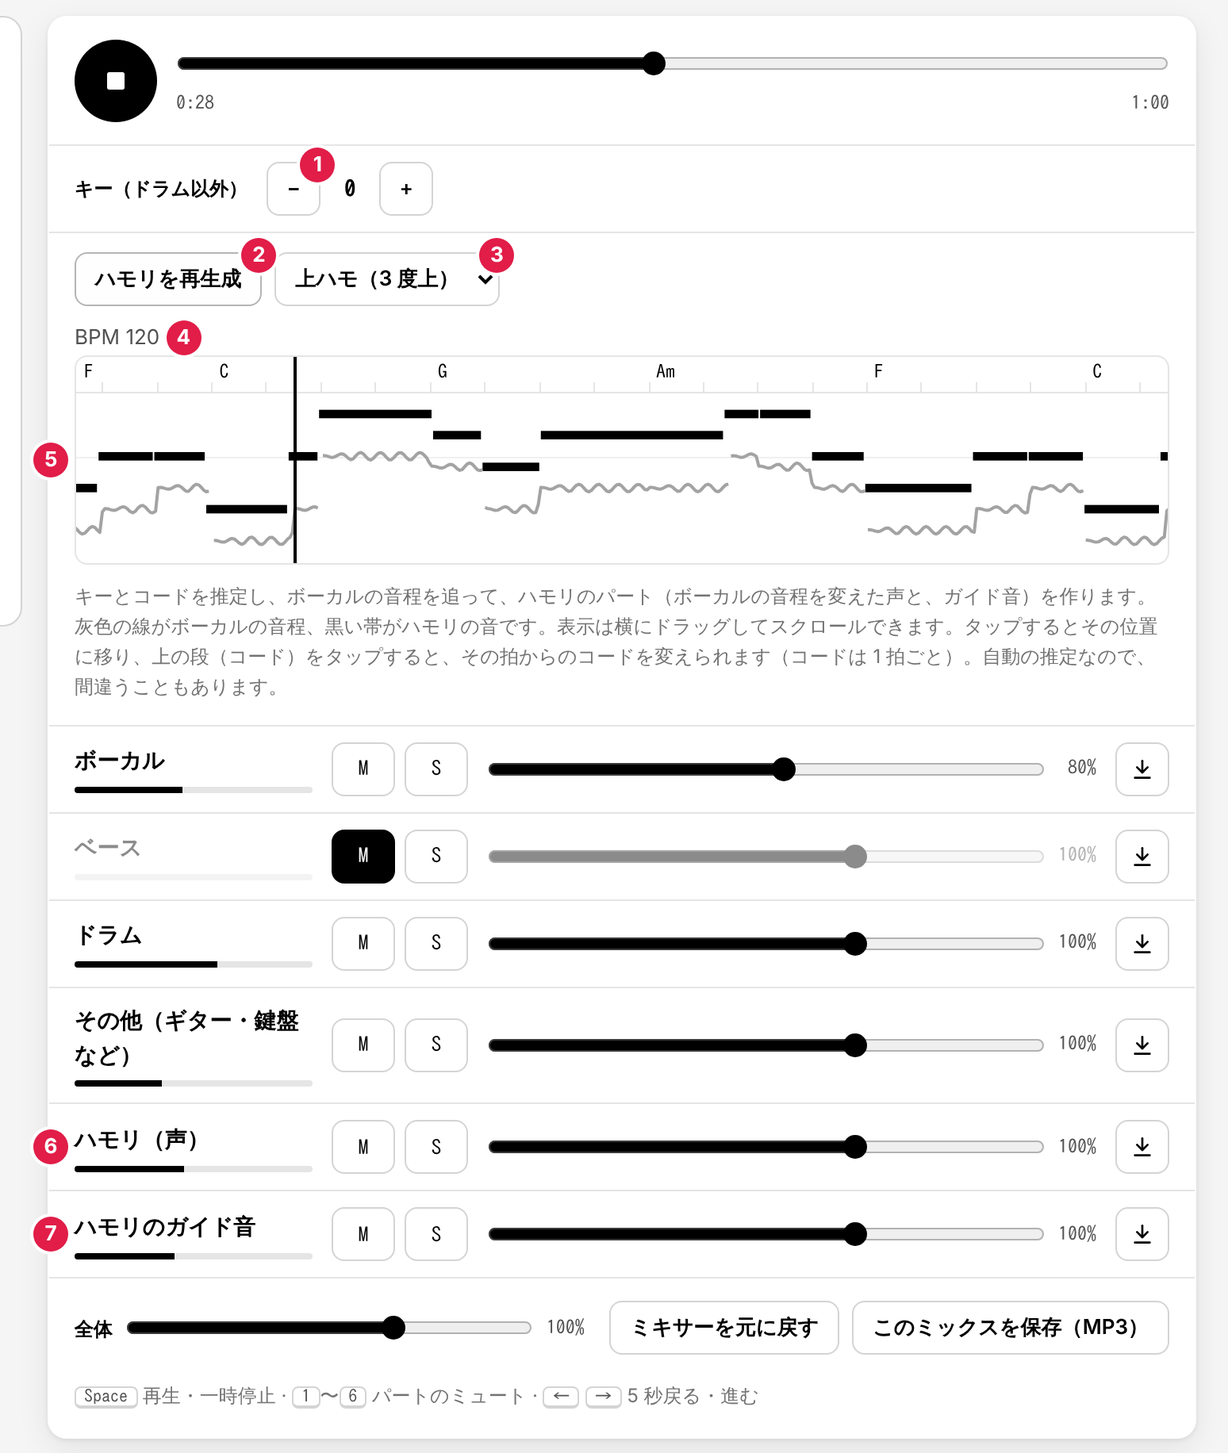
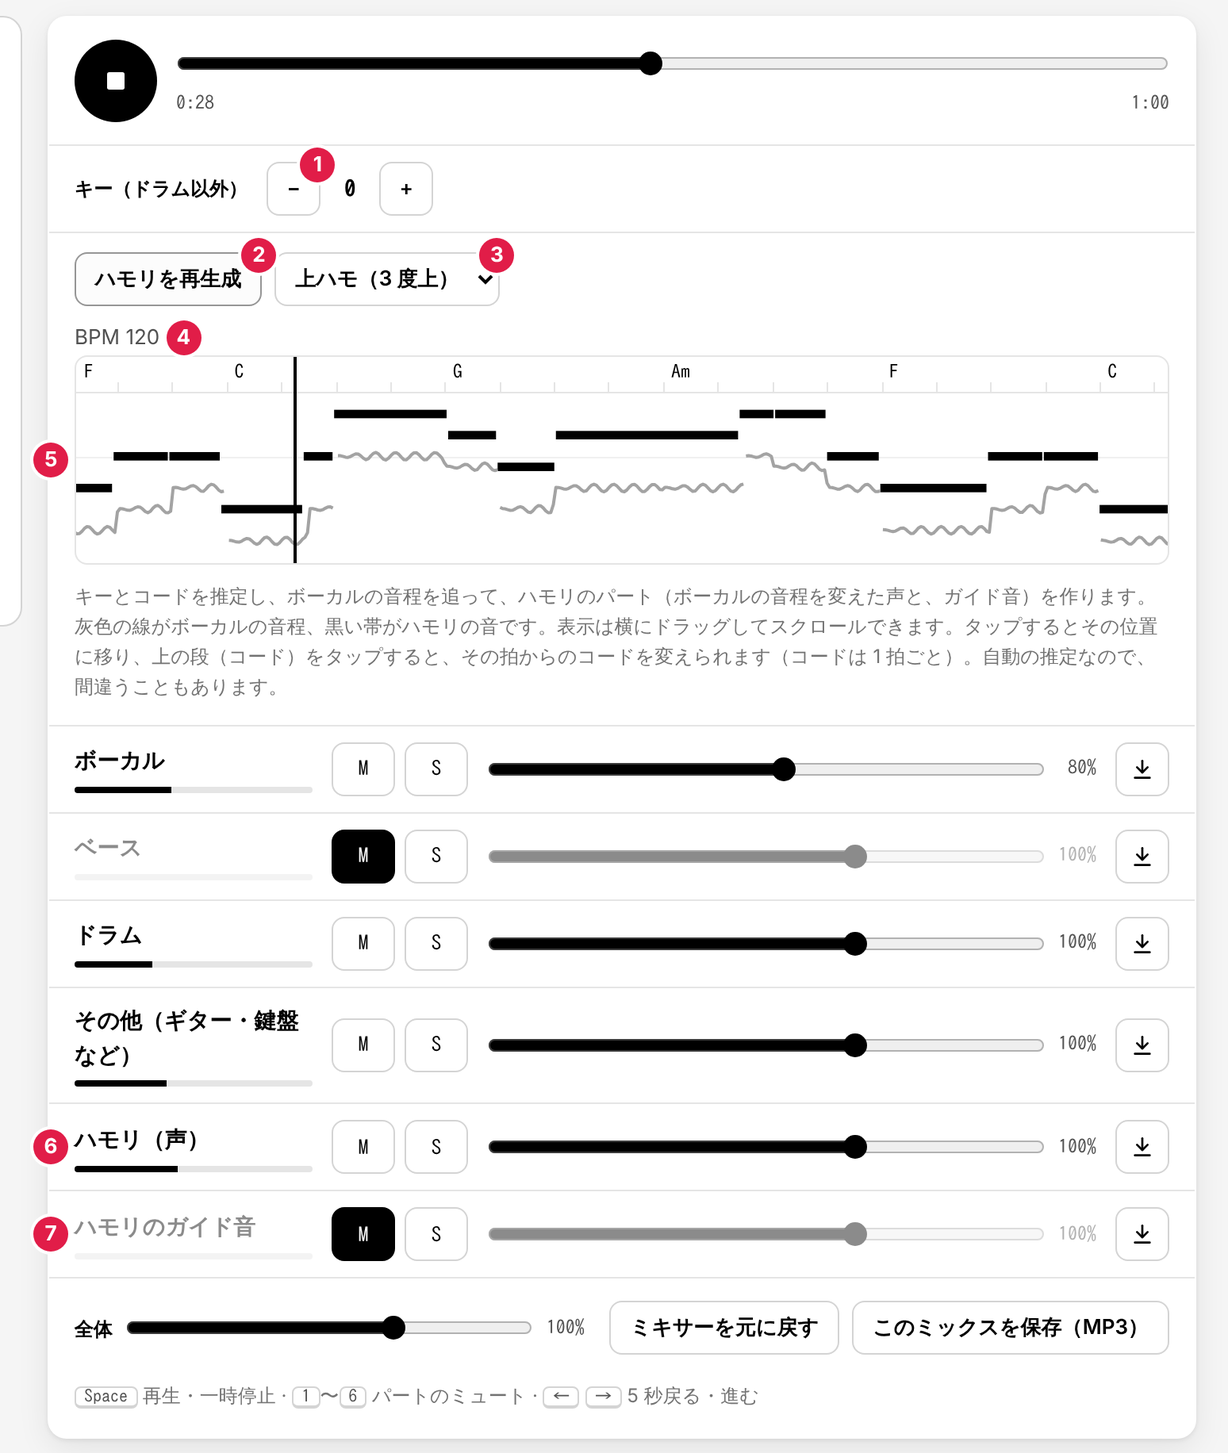
ハモリのガイド音を最初はミュートに
- freshState() でガイド音だけ mute: true。保存形式を v: 2 にし、v: 1 の保存はガイド音以外（各パートの音量・ミュート、全体の音量）を引き継ぐ
- 「ミキサーを元に戻す」の案内に、ガイド音はミュートに戻ることを追記
- 記事（guide・harmony）: ガイド音は最初ミュートで、聞くときは M を押すことを追記。練習法の 2 番目に M を外す手順
- 画面写真を撮り直し（ガイド音の行がミュート表示、マーカー 1 がラベルに重ならないように）

Claude-Session: https://claude.ai/code/session_01FBcjAeQ3QT6sh8No2uGm2z

diff --git a/public/bandstemmixer/ja/harmony/index.html b/public/bandstemmixer/ja/harmony/index.html
@@ -212,7 +212,7 @@
   <li><b>BPM</b> – 曲から推定したテンポ。コードはこの拍の上で切り替わります。</li>
   <li><b>表示</b> – 上の段にコード名（拍ごとに小さな目盛り）、<b>灰色の線</b>がボーカルの音程、<b>黒い帯</b>がハモリの音、黒い縦線が再生位置です。横にドラッグ（または横スワイプ・Shift＋ホイール）すると前後を見られ、タップするとその位置に移ります。再生を始めると、再生位置に戻ります。</li>
   <li><b>ハモリ（声）</b> – 分離したボーカルを、ハモリの音程に変えたもの。歌い手のビブラートや歌詞が残るので、もう一人が歌っているように聞こえます。</li>
-  <li><b>ハモリのガイド音</b> – 同じ音を、揺れのない単純な音で鳴らします。音程が正確なので、いちばん合わせやすい音です。</li>
+  <li><b>ハモリのガイド音</b> – 同じ音を、揺れのない単純な音で鳴らします。音程が正確なので、いちばん合わせやすい音です。最初はミュートになっているので、聞くときは M を押します。</li>
 </ol>
 <p>増えた 2 つのパートにも、ほかのパートと同じく M・S・フェーダーと、MP3 で保存する ↓ ボタンがあります。</p>
 
@@ -232,7 +232,7 @@
 <h2 id="practice">4 ステップの練習法</h2>
 <ol>
   <li><b>聞く</b> – ガイド音だけをソロ（S）にして、ハモリを何度か聞きます。次にボーカルも S にして、2 つの線の重なり方を聞きます。</li>
-  <li><b>ガイドと一緒に歌う</b> – ボーカルとガイド音を鳴らしたまま、ガイドに合わせてハモリを歌います。ハモリ（声）は、まずはミュート（M）しておきます。</li>
+  <li><b>ガイドと一緒に歌う</b> – ガイド音の M を押してミュートを外し（最初はミュート）、ボーカルとガイド音を鳴らしたまま、ガイドに合わせてハモリを歌います。ハモリ（声）は、まずはミュート（M）しておきます。</li>
   <li><b>助けを減らす</b> – ガイド音を 60%、30% と少しずつ下げ、主旋律に対して自分でハモリを保てるようにします。</li>
   <li><b>一人で歌う</b> – ガイド音とハモリ（声）をミュートし、主旋律とバンドに対してハモリを歌います。確かめたいときは、ハモリ（声）を少しだけ戻します。</li>
 </ol>

diff --git a/public/bandstemmixer/index.html b/public/bandstemmixer/index.html
@@ -529,7 +529,7 @@
           "master": "Master",
           "mix.reset": "Reset mixer",
           "mix.save": "Save this mix (MP3)",
-          "mix.reset.done": "All parts back to 100%, unmuted.",
+          "mix.reset.done": "All parts back to 100%, unmuted (the guide tone muted).",
           "mute": "Mute {name}",
           "solo": "Solo {name}",
           "volume": "{name} volume",
@@ -672,7 +672,7 @@
           "master": "全体",
           "mix.reset": "ミキサーを元に戻す",
           "mix.save": "このミックスを保存（MP3）",
-          "mix.reset.done": "すべてのパートを 100%・ミュートなしに戻しました。",
+          "mix.reset.done": "すべてのパートを 100%・ミュートなし（ガイド音はミュート）に戻しました。",
           "mute": "{name}をミュート",
           "solo": "{name}をソロ",
           "volume": "{name}の音量",
@@ -843,20 +843,23 @@
       // ---------- Saved state ----------
       // Mixer settings only. Solo is not restored (a part left on solo would silence the others without notice).
       const STATE_KEY = "bandstemmixer-state";
+      // The harmony guide tone starts muted (the harmony voice is usually what you want to hear first)
       function freshState() {
         const parts = {};
-        ALL.forEach(function (p) { parts[p.key] = { vol: 1, mute: false }; });
-        return { v: 1, master: 1, parts: parts };
+        ALL.forEach(function (p) { parts[p.key] = { vol: 1, mute: p.key === "guide" }; });
+        return { v: 2, master: 1, parts: parts };
       }
       const clampVol = (v, max) => (typeof v === "number" && isFinite(v) ? Math.max(0, Math.min(max, v)) : 1);
       let store = (function () {
         const s = freshState();
         try {
           const o = JSON.parse(localStorage.getItem(STATE_KEY) || "null");
-          if (o && o.v === 1) {
+          // v1 (before the guide tone started muted): everything but the guide tone carries over
+          if (o && (o.v === 1 || o.v === 2)) {
             s.master = clampVol(o.master, 1.5);
             ALL.forEach(function (p) {
               const x = o.parts && o.parts[p.key];
+              if (o.v === 1 && p.key === "guide") return;
               if (x) s.parts[p.key] = { vol: clampVol(x.vol, 1.5), mute: x.mute === true };
             });
           }

diff --git a/public/bandstemmixer/ja/index.html b/public/bandstemmixer/ja/index.html
@@ -525,7 +525,7 @@
           "master": "Master",
           "mix.reset": "Reset mixer",
           "mix.save": "Save this mix (MP3)",
-          "mix.reset.done": "All parts back to 100%, unmuted.",
+          "mix.reset.done": "All parts back to 100%, unmuted (the guide tone muted).",
           "mute": "Mute {name}",
           "solo": "Solo {name}",
           "volume": "{name} volume",
@@ -668,7 +668,7 @@
           "master": "全体",
           "mix.reset": "ミキサーを元に戻す",
           "mix.save": "このミックスを保存（MP3）",
-          "mix.reset.done": "すべてのパートを 100%・ミュートなしに戻しました。",
+          "mix.reset.done": "すべてのパートを 100%・ミュートなし（ガイド音はミュート）に戻しました。",
           "mute": "{name}をミュート",
           "solo": "{name}をソロ",
           "volume": "{name}の音量",
@@ -839,20 +839,23 @@
       // ---------- Saved state ----------
       // Mixer settings only. Solo is not restored (a part left on solo would silence the others without notice).
       const STATE_KEY = "bandstemmixer-state";
+      // The harmony guide tone starts muted (the harmony voice is usually what you want to hear first)
       function freshState() {
         const parts = {};
-        ALL.forEach(function (p) { parts[p.key] = { vol: 1, mute: false }; });
-        return { v: 1, master: 1, parts: parts };
+        ALL.forEach(function (p) { parts[p.key] = { vol: 1, mute: p.key === "guide" }; });
+        return { v: 2, master: 1, parts: parts };
       }
       const clampVol = (v, max) => (typeof v === "number" && isFinite(v) ? Math.max(0, Math.min(max, v)) : 1);
       let store = (function () {
         const s = freshState();
         try {
           const o = JSON.parse(localStorage.getItem(STATE_KEY) || "null");
-          if (o && o.v === 1) {
+          // v1 (before the guide tone started muted): everything but the guide tone carries over
+          if (o && (o.v === 1 || o.v === 2)) {
             s.master = clampVol(o.master, 1.5);
             ALL.forEach(function (p) {
               const x = o.parts && o.parts[p.key];
+              if (o.v === 1 && p.key === "guide") return;
               if (x) s.parts[p.key] = { vol: clampVol(x.vol, 1.5), mute: x.mute === true };
             });
           }

diff --git a/public/bandstemmixer/harmony/index.html b/public/bandstemmixer/harmony/index.html
@@ -212,7 +212,7 @@
   <li><b>BPM</b> – The tempo found in the song. The chords change on its beats.</li>
   <li><b>The roll</b> – The chord names on top, with a small tick at every beat; the vocal melody as a <b>grey line</b>; the harmony notes as <b>black bars</b>; the black vertical line is the play position. Drag it sideways (or use a sideways swipe or Shift + wheel) to look ahead or back; tap it to jump there. It follows the playback again when you press play.</li>
   <li><b>Harmony (voice)</b> – The separated vocals moved to the harmony notes. It keeps the singer's vibrato and words, so it sounds like a second singer.</li>
-  <li><b>Harmony guide tone</b> – The same notes as a plain, steady tone. The pitch is exact, which makes it the easiest to sing along to.</li>
+  <li><b>Harmony guide tone</b> – The same notes as a plain, steady tone. The pitch is exact, which makes it the easiest to sing along to. It starts muted; press its M to hear it.</li>
 </ol>
 <p>Both new parts have M, S, a fader, and the ↓ button to save them as MP3 files, like the other parts.</p>
 
@@ -232,7 +232,7 @@
 <h2 id="practice">A practice plan in four steps</h2>
 <ol>
   <li><b>Listen.</b> Solo the guide tone (S) and listen to the harmony on its own a few times. Then add the vocals (S on both) to hear how the two lines fit.</li>
-  <li><b>Sing with the guide.</b> Keep the vocals and the guide tone on, and sing the harmony along with the guide. Turn the harmony voice off (M) for now.</li>
+  <li><b>Sing with the guide.</b> Turn the guide tone on (its M; it starts muted) and keep the vocals on, and sing the harmony along with the guide. Turn the harmony voice off (M) for now.</li>
   <li><b>Lower the help.</b> Turn the guide tone down step by step — 60%, 30% — until you are carrying the harmony yourself against the lead vocal.</li>
   <li><b>Sing it alone.</b> Mute the guide tone and the harmony voice and sing the harmony against the lead and the band. To check yourself, unmute the harmony voice for a moment.</li>
 </ol>

diff --git a/public/bandstemmixer/ja/guide/index.html b/public/bandstemmixer/ja/guide/index.html
@@ -243,7 +243,7 @@
   <li><b>フェーダー</b> – パートの音量（0〜150%）。</li>
   <li><b>↓（パートを保存）</b> – そのパートだけを MP3 ファイルで保存します。</li>
   <li><b>全体</b> – ミックス全体の音量。</li>
-  <li><b>ミキサーを元に戻す</b> – すべてのパートを 100%・ミュートなしに戻します。</li>
+  <li><b>ミキサーを元に戻す</b> – すべてのパートを 100%・ミュートなしに戻します（ハモリのガイド音はミュートに戻します）。</li>
   <li><b>このミックスを保存（MP3）</b> – いま聞こえている音を 1 つの MP3 ファイルで保存します。</li>
 </ol>
 <p>フェーダー・M・全体の音量は次回も残ります。S は残らないので、うっかりソロのまま始まることはありません。</p>
@@ -262,7 +262,7 @@
   <li><b>BPM</b> – 曲から推定したテンポ。</li>
   <li><b>表示</b> – 上の段にコード名（拍をタップするとコードを変えられます）、灰色の線がボーカルの音程、黒い帯がハモリの音。横にドラッグすると先を見られ、タップするとその位置に移ります。</li>
   <li><b>ハモリ（声）</b> – ボーカルをハモリの音程に変えたもの。</li>
-  <li><b>ハモリのガイド音</b> – 同じ音を単純な音で鳴らしたもの。</li>
+  <li><b>ハモリのガイド音</b> – 同じ音を単純な音で鳴らしたもの。最初はミュートなので、聞くときは M を押します。</li>
 </ol>
 <p>これらはすべて、AI モデルを使わずにブラウザの中で処理します。詳しくは<a href="../harmony/">ハモリの練習</a>と<a href="../chords-and-key/">コード表示とキー変更</a>をご覧ください。</p>
 

diff --git a/public/bandstemmixer/guide/index.html b/public/bandstemmixer/guide/index.html
@@ -243,7 +243,7 @@
   <li><b>Fader</b> – The volume of the part, from 0% to 150%.</li>
   <li><b>↓ (save the part)</b> – Saves that part alone as an MP3 file.</li>
   <li><b>Master</b> – The volume of the whole mix.</li>
-  <li><b>Reset mixer</b> – Puts every part back to 100% and unmuted.</li>
+  <li><b>Reset mixer</b> – Puts every part back to 100% and unmuted (the harmony guide tone back to muted).</li>
   <li><b>Save this mix (MP3)</b> – Saves what you hear now as one MP3 file.</li>
 </ol>
 <p>The faders, M, and the master volume are remembered for next time; S is not, so you never start in solo by mistake.</p>
@@ -262,7 +262,7 @@
   <li><b>BPM</b> – the tempo found in the song.</li>
   <li><b>The view</b> – chord names on top (tap a beat there to change the chord), the vocal melody as a grey line, and the harmony notes as black bars. Drag it sideways to look ahead; tap it to jump there.</li>
   <li><b>Harmony (voice)</b> – the vocals moved to the harmony notes.</li>
-  <li><b>Harmony guide tone</b> – the same notes as a plain tone.</li>
+  <li><b>Harmony guide tone</b> – the same notes as a plain tone. It starts muted; press its M to hear it.</li>
 </ol>
 <p>All of this runs in your browser without the AI model. For more, see <a href="../harmony/">practicing harmonies</a> and <a href="../chords-and-key/">chords and key change</a>.</p>
 

diff --git a/CLAUDE.md b/CLAUDE.md
@@ -30,7 +30,7 @@
 - 外部ホストを足したら `public/_headers` の CSP と、プライバシーの説明（`scripts/pages/privacy.mjs`、アプリ内の `privacy.body`、README）を同じ PR で直す。
 - ハモリは `harmony.js`（ワーカー）。AI モデルもライブラリも使わない自前の JavaScript：まず 4 パートの和（曲全体）から拍とテンポ（`detectBeats()`。Loop Trainer（ktkwmr/LoopTrainer、MIT、同じ作者）の `detectBeats()` から小節の頭の推定を除いて移したもの。`BEAT_BIAS` も同じ値）を出し、拍ごとのマス（`makeGrid()`、4 分音符。拍が見つからないときは 0.5 秒ごと）を作る。「ベース」「その他」のクロマ（12 音の強さ）をマスごとに足して長三和音・短三和音と照合し、拍ごとに HMM（Viterbi）でならしてコード、Krumhansl のプロファイルと主和音の長さでキー、ボーカルを YIN で音程にしてノートに切り、各ノートにキーの中の 3 度か 5 度上（下）を、コードとぶつかるときはコードの音に寄せて選ぶ（コードの種類は `CHORD_TYPES`。推定はメジャー・マイナーだけ、7th・add9・dim7・m7b5・aug などは編集で付く）。ページはコードを拍ごとのマス（`harm.cells`、`harm.grid`）で持ち、編集はマス単位（その拍から何拍分か）。ノーコードは空白で表示する。キーは曲全体で 1 つ（転調には対応しない）なので画面には出さず、ハモリの音選びにだけ使う。表示は BPM・コード（上の段の名前と拍の目盛り）・旋律・ハモリの音だけ（いま・次のコードの表示、コードの境目の縦線はなし）。ピアノロールは横ドラッグ・横ホイールでスクロールでき（`viewStart`）、再生開始・シークで再生位置に戻る。一度作るとボタンは「ハモリを再生成」（`harm.regen`）になり、ページが持っているコード（編集したもの）と旋律を渡して使い回す（コードの推定と音程の追跡をやり直さない）。コードを編集しても自動では作り直さず、案内（`chords.stale`）を出す。0.3 秒より近いノートは 1 つのフレーズにつなぎ（すき間は真ん中で分ける）、フレーズごとに途切れない音として作る（音程の変化はノートの境目で 40 ms かけて移る）。ハモリの声は TD-PSOLA でボーカルの音程を変えたもの（フレーズの前後 60 ms と、フレーズ内の子音・息も含める）、ガイド音は単純な合成音（フレーズ内はレガート）。どちらもモノラル（L と R に同じ配列）で、ミキサーの 5・6 本目（`HARM`）に足す。分析は 11025 Hz（4 分の 1 に間引き）。作り直し・分離し直しで置き換え、保存はしない。
 - キーチェンジは `keyshift.js`（ワーカー、パートごとに 1 つ並行）。フェーズボコーダー（ピークの位相固定）で時間を伸ばしてから元の長さに戻す。ベースは FFT 4096、ほかは 2048。ドラムは変えない。ページは分離したままのパート（`orig`）と、ハモリ・コードを原曲のキーで持ち、キーの変化（`semis`）は音・コード名・表示にだけかける。ハモリの声とガイド音は、キーを変えるたびに `harmony.js` で作り直す（ハモリの音程 + キーの変化を一度にずらす）。`keyshift.js` を変えたら、テスト曲を ±n 半音ずらして、コード推定と旋律がちょうど n ずれ、音量が変わらないことを確かめる。`harmony.js` を変えたら、`scripts/guide-song.mjs` の曲で、コード（Am F C G）・旋律・ハモリの声の音程が合うことを確かめる。
-- ミキサーの設定は `localStorage` の `bandstemmixer-state`（各パートの音量・ミュート（ハモリの 2 本も）、全体の音量）。分離の設定は端末ごとに順に試す（`index.html` の `MODES`・`LADDER`）。PC は full（WebGPU があれば GPU、CPU は多スレッド）→ cpu。スマホとメモリ 4 GB 以下の端末は gpu（GPU・メモリ節約）→ cpu（2 スレッド）→ cpu1（1 スレッド）。iPhone の Safari では GPU の作業メモリはタブではなく GPU プロセスが持つので、タブの上限（htdemucs は 1 区間で約 1 GB 使う）に触れにくい。エラーなら同じ分離の中で次の設定に移り、タブごと落ちたら（`bandstemmixer-running` の記録が残る）次に開いたときに `bandstemmixer-crashed` に覚えて、その設定を 30 日飛ばす。ソロは保存しない。分離したパートは保存しない。
+- ミキサーの設定は `localStorage` の `bandstemmixer-state`（各パートの音量・ミュート（ハモリの 2 本も）、全体の音量。`v: 2`。ハモリのガイド音は最初ミュート（`freshState()`）。`v: 1` の保存はガイド音以外を引き継ぐ）。分離の設定は端末ごとに順に試す（`index.html` の `MODES`・`LADDER`）。PC は full（WebGPU があれば GPU、CPU は多スレッド）→ cpu。スマホとメモリ 4 GB 以下の端末は gpu（GPU・メモリ節約）→ cpu（2 スレッド）→ cpu1（1 スレッド）。iPhone の Safari では GPU の作業メモリはタブではなく GPU プロセスが持つので、タブの上限（htdemucs は 1 区間で約 1 GB 使う）に触れにくい。エラーなら同じ分離の中で次の設定に移り、タブごと落ちたら（`bandstemmixer-running` の記録が残る）次に開いたときに `bandstemmixer-crashed` に覚えて、その設定を 30 日飛ばす。ソロは保存しない。分離したパートは保存しない。
 - 記事は `scripts/pages/<slug>.mjs`（`guide`・`minus-one`・`learn-by-ear`・`harmony`・`chords-and-key`・`how-it-works`・`better-results`・`faq`）。画面写真は `scripts/pages/shots.mjs` の `img()` で入れる。アプリと共通の値（モデルの大きさ・曲の長さの上限・フェーダーの上限・MP3 のビットレート・区間の長さ）は書き写さず、`scripts/pages/app.mjs` がアプリのファイルから読む（見つからなければビルドが止まる）。記事を足したら `build-pages.mjs` の `PAGES` と、`index.html` の `intro.body` のガイド一覧（英日）にも足す。見た目を変えたら `node scripts/render-guide-images.mjs` で画面写真を撮り直す（架空の曲 `scripts/guide-song.mjs` を使い、`separator.js` を仮の処理に差し替えるので AI モデルは不要。日本語のファイル名はパスではなく buffer で渡す）。
 - トップページ（https://ktkwmr.com/）のアプリ一覧に載せたら、アプリ名・説明・アイコン・記事を変えたときに `ktkwmr/ktkwmr.com` の `scripts/pages/home.mjs` を直す PR を別に出す（ベースライン §2-16）。
 - 記事を追加・変更したら、PR のプレビューで人間が内容を確認してからマージする（ベースライン §10-7）。確認してほしい点を `docs/article-review.md` に書き、PR 本文にも載せる。記事は広告なし（重みのライセンスのため。記事だけに広告を付けるのも不可）。

diff --git a/docs/article-review.md b/docs/article-review.md
@@ -58,6 +58,7 @@ PR を出すと Cloudflare のプレビュー URL ができるので、そこで
 | O | how-it-works | 拍（自己相関・動的計画法、Ellis 2007）、コード（クロマ・HMM）、旋律（YIN）、ハモリ（TD-PSOLA）、キー（フェーズボコーダー）の説明が、専門的すぎず、言い過ぎでないか |
 | P | chords-and-key・learn-by-ear | Loop Trainer（/looptrainer/）へのリンク。プレビューでは別の Worker なので開けない（本番では開ける） |
 | Q | privacy | 改定の書き方（「制定日 … （改定：…）」）でよいか。外部への送信は増えていない（解析はすべてブラウザの中） |
+| R | guide・harmony | ハモリのガイド音は最初ミュート（2026-10-31 追加）。練習法の 2 番目で M を外す手順を足した。読みにくくないか |
 
 ## 確認が終わったら
 
